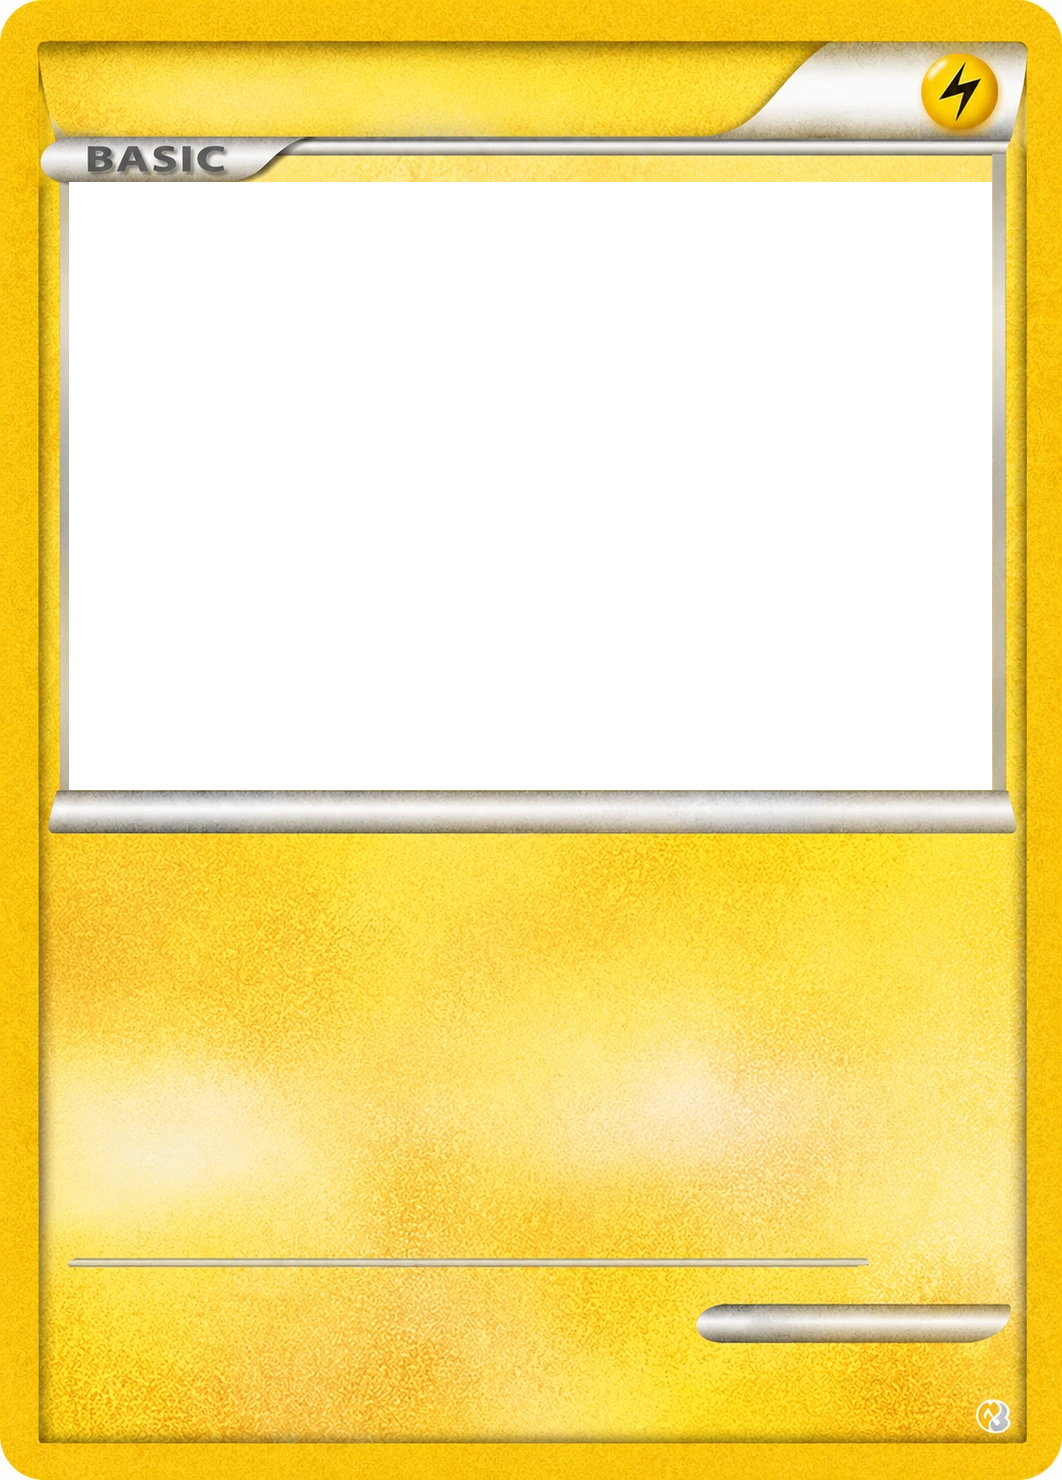
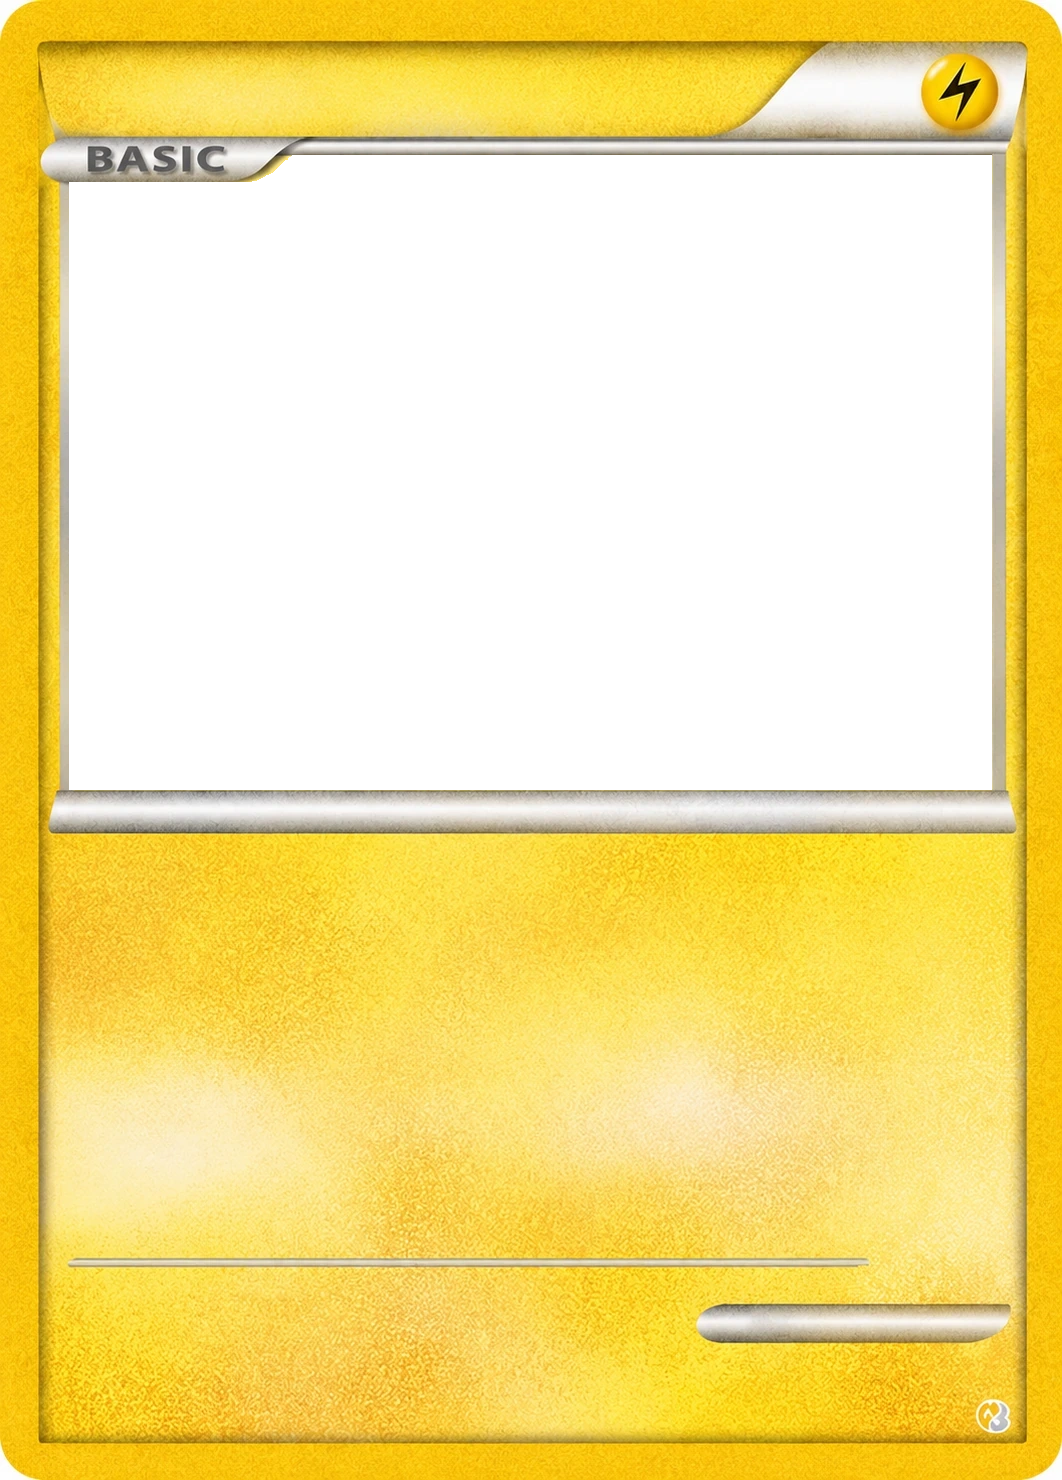
Punch the HGSS art hole up to the rail; stop shaving the illustration
Dan's review: a blank strip ran across the top of every illustration, most
visible right of the stage tab, on all three stages.

The art was covering its hole exactly — the hole itself was cut ~30px too low
when the blanks were processed, leaving a band of opaque frame colour between
the rail and the illustration. A real HGSS card has no such band: the art
starts at 10.16% of card height, immediately under the rail, with the stage
capsule overhanging it (measured on the Cyndaquil scan in actualcards/).

- tmp/hgss_repunch_hole.py re-punches all 21 frames up to the rail, keeping
  the capsule and its taper opaque so it still overhangs the art. The taper is
  read once off basic-fire.webp — its band is flat white, so the silhouette is
  unambiguous — and reused for every frame. Reading it per template does not
  work: the band is textured on water, lightning and fighting, so a per-row
  colour walk lands somewhere different on each row and leaves ragged slivers.

- HGSS_ART_WINDOW tops move 12.30% -> 10.14-10.47%. Heights carry +0.10 over
  the measured alpha bbox because the box otherwise rounds a device pixel
  short at some widths and shows a hairline of bare hole; the overshoot hides
  behind the silver lip.

- HGSS_ART_TAB_STRIP 0.1157 -> 0.024. The crops only contain ~2.4% of the
  source card's own stage tab, not 11.6% — the old value was shaving real
  illustration off the top of every card, which is what Dan spotted.
[…]

Changed region(s): [[0.2486, 0.0932, 0.9322, 0.1243]]

diff --git a/src/components/ui/TcgCard.tsx b/src/components/ui/TcgCard.tsx
@@ -52,23 +52,31 @@ const GEN4_ART_WINDOW = { left: 11.0, top: 13.5, width: 78.0, height: 36.0 };
 const GEN2_ART_WINDOW = { left: 11.0, top: 16.0, width: 78.0, height: 28.0 };
 
 /**
- * Art window per energy (transparent hole). Tops sit below the stage tab
- * (~12.3%) so the badge stays opaque. Measured after the 2026-07-11 reprocess
- * of all pokedex HGSS_Card_Templates basics (HP removed from sources).
+ * Art window per energy (transparent hole).
  *
- * Stage 1 / Stage 2 frames are derived from those same basics (only the tab
- * lettering differs — see tmp/hgss_make_stages.py), so one window per energy
- * covers all three stages.
+ * Tops sit just under the silver rail, ~10.2-10.6%, matching a real HGSS card
+ * (measured at 10.16% on the Cyndaquil scan in HGSS_Card_Templates/actualcards).
+ * The stage-tab capsule stays opaque and overhangs the art, as on a real card.
+ * The blanks originally punched the hole at 12.30%, which left a band of flat
+ * opaque colour between the tab and the illustration — re-punched by
+ * tmp/hgss_repunch_hole.py.
+ *
+ * Stage 1 / Stage 2 frames are derived from the basics (only the tab lettering
+ * differs — see tmp/hgss_make_stages.py), so one window per energy covers all
+ * three stages.
  */
 const HGSS_ART_WINDOW: Record<string, { left: number; top: number; width: number; height: number }> = {
-  fire:      { left: 7.06, top: 12.30, width: 85.78, height: 40.07 },
-  lightning: { left: 6.50, top: 12.30, width: 86.91, height: 41.08 },
-  grass:     { left: 7.06, top: 12.30, width: 85.78, height: 42.03 },
-  water:     { left: 6.50, top: 12.30, width: 86.91, height: 43.18 },
-  fighting:  { left: 7.72, top: 12.30, width: 84.46, height: 40.14 },
-  psychic:   { left: 6.50, top: 12.30, width: 86.91, height: 42.57 },
-  colorless: { left: 6.50, top: 12.30, width: 86.91, height: 42.16 },
+  fire:      { left: 7.06, top: 10.27, width: 85.78, height: 42.19 },
+  lightning: { left: 6.50, top: 10.47, width: 86.91, height: 43.01 },
+  grass:     { left: 7.06, top: 10.47, width: 85.78, height: 43.95 },
+  water:     { left: 6.50, top: 10.20, width: 86.91, height: 45.37 },
+  fighting:  { left: 7.72, top: 10.41, width: 84.46, height: 42.13 },
+  psychic:   { left: 6.50, top: 10.20, width: 86.91, height: 44.76 },
+  colorless: { left: 6.50, top: 10.14, width: 86.91, height: 44.42 },
 };
+// Heights carry +0.10 over the measured alpha bbox: at some viewport widths the
+// box rounded a device pixel short and left a hairline of bare hole along the
+// bottom. The overshoot lands behind the opaque silver lip, so it never shows.
 const HGSS_ART_DEFAULT = HGSS_ART_WINDOW.fire;
 
 /**
@@ -134,14 +142,13 @@ const HGSS_LAYOUT: Record<string, {
 };
 
 /**
- * The gen4 illustrations were cropped at (0.040, 0.075, 0.960, 0.490) of the
- * source card, which keeps the source card's OWN stage tab in the top strip —
- * `(0.123 - 0.075) / (0.490 - 0.075)` of the crop. Against the CSS placeholder
- * that read as a nice partial tab, but the real templates bake their own tab,
- * so the leftover ghosts through it ("STAGE 1 · Evolves from Bulbasaur" under
- * a Stage 2 badge). Zoom the art from its bottom edge to push that strip out.
+ * The gen4 illustrations keep a sliver of the source card's OWN stage tab along
+ * the top — measured at ~10px of 423 on the HGSS-era crops, e.g.
+ * public/cards/gen4/hgss1/57.jpg. Now that the hole reaches up under our own
+ * opaque tab, that sliver lands behind it and is hidden, so we only need to zoom
+ * past the source's frame edge. Anything larger visibly shaves the artwork.
  */
-const HGSS_ART_TAB_STRIP = 0.1157;
+const HGSS_ART_TAB_STRIP = 0.024;
 const HGSS_ART_ZOOM = 1 / (1 - HGSS_ART_TAB_STRIP);
 
 const SUBTITLE_POS: Record<string, { top: string; left: string; right: string }> = {

diff --git a/src/__tests__/hgss-card-templates.test.ts b/src/__tests__/hgss-card-templates.test.ts
@@ -19,7 +19,7 @@ const TEMPLATE_DIR = resolve(PUBLIC_DIR, 'cards/gen4/templates');
 const ENERGIES = ['fire', 'lightning', 'grass', 'water', 'fighting', 'psychic', 'colorless'];
 const STAGES = ['basic', 'stage1', 'stage2'];
 
-/** "/cards/gen4/templates/basic-grass.webp?v=10" -> absolute path under public/. */
+/** "/cards/gen4/templates/basic-grass.webp?v=11" -> absolute path under public/. */
 function templatePath(url: string): string {
   return resolve(PUBLIC_DIR, url.split('?')[0]!.replace(/^\//, ''));
 }

diff --git a/src/core/constants/tcg-card.ts b/src/core/constants/tcg-card.ts
@@ -86,5 +86,5 @@ export function resolveHgssTemplate(
   const stageKey = HGSS_STAGE_KEY[stage];
   if (!stageKey || !HGSS_ENERGIES.has(energyKey)) return null;
   // ?v= bumps when templates are reprocessed (art hole / corners / tab).
-  return `/cards/gen4/templates/${stageKey}-${energyKey}.webp?v=10`;
+  return `/cards/gen4/templates/${stageKey}-${energyKey}.webp?v=11`;
 }

diff --git a/STATUS.md b/STATUS.md
@@ -7,11 +7,16 @@
 
 ---
 
-## ▶ IN PROGRESS — art does not fit the frame window (2026-07-30)
+## ▶ IN PROGRESS — one bug left (2026-07-30)
 
-**Read this first. Two open bugs from Dan's review of commit `bed8b8e`.**
+### Bug 2 (OPEN, next up) — "Held:" not centred in its silver pill
 
-### Bug 1 (priority) — blank gap along the top of every illustration
+`H.heldPill` in `TcgCard.tsx` — text sits on the bottom edge of the capsule instead of
+optically centred. Per-energy `heldPillTop` in `HGSS_LAYOUT`.
+
+---
+
+### Bug 1 — blank gap along the top of every illustration — **FIXED**
 
 **Symptom:** on every card, all three stages, there is a light empty strip across the
 top of the art window — most visible immediately to the right of the `BASIC` /
@@ -57,27 +62,35 @@ Measured, not eyeballed:
   off the top for no reason. Once the hole reaches up under our own opaque tab, the
   source tab is hidden by it and this strip can go to ~0.
 
-**Fix (in order):**
-1. Re-punch all 21 frames: extend transparency upward from the current hole top to
-   just below the rail, across the hole's x-range, **leaving the tab capsule and its
-   taper opaque** so it overhangs the art like a real card. Per-row rule: find the
-   leftmost x where the run to the hole's right edge is uniformly near-white; that is
-   where the white band starts on that row, and the capsule is to its left.
-2. Raise `HGSS_ART_WINDOW[energy].top` and add the same amount to `.height` so the
-   bottom edge stays on the silver lip.
-3. Drop `HGSS_ART_TAB_STRIP` to the measured source-tab fraction (~0.024) or 0.
-4. Bump the template `?v=`.
-5. Verify: magenta-holder screenshot shows no uncovered hole; side-by-side against
-   the real Cyndaquil scan shows no white band; check one card per energy per stage.
+**Fixed by `tmp/hgss_repunch_hole.py`** — re-punches all 21 frames so the hole reaches
+the rail. Art tops are now 10.14-10.47%, against the real card's 10.16%.
 
-**Repro harness (rebuild it, it is scratch and was deleted):** `cardlab.html` at the
-repo root + `tmp/cardlab.tsx` rendering `<TcgCard>` from `tmp/records.json`, dumped
-from the real save. Screenshot with Playwright over `https://localhost:5173/cardlab.html?s=10`.
+Two dead ends worth not repeating, both of which *looked* fine at thumbnail size:
 
-### Bug 2 (after bug 1) — "Held:" not centred in its silver pill
+- **Per-row colour walks to find the capsule's edge.** The band is flat 254 on
+  fire/grass but textured on water, lightning and fighting, so the walk stopped at a
+  different x on every row and left ragged horizontal slivers of template under the
+  rail. The capsule sits identically on all 21 frames, so the taper is now read
+  **once** off `basic-fire.webp` (its flat white band makes the silhouette
+  unambiguous) and reused for every frame.
+- **Starting that walk on the hole's right edge.** That column is the frame's bevel,
+  nowhere near the band colour, so the walk exited immediately and most rows were
+  never punched at all. Sample and start `BAND_INSET` in from the edge.
 
-`H.heldPill` in `TcgCard.tsx` — text sits on the bottom edge of the capsule instead of
-optically centred. Per-energy `heldPillTop` in `HGSS_LAYOUT`.
+`HGSS_ART_WINDOW` heights carry **+0.10 over the measured alpha bbox**: without it the
+box rounds a device pixel short at some widths and leaves a hairline of bare hole along
+the bottom. The overshoot hides behind the opaque silver lip.
+
+`HGSS_ART_TAB_STRIP` dropped 0.1157 -> **0.024**, the real amount of source-card stage
+tab in the crops. The old value shaved ~13% off the top of every illustration.
+
+Template cache is now **`?v=11`**.
+
+**Verification harness (scratch — rebuild it):** `cardlab.html` at the repo root +
+`tmp/cardlab.tsx` render `<TcgCard>` straight from `tmp/records.json`. A Playwright
+script paints the art holder magenta: any magenta left on screen is hole the art fails
+to cover. A second builds a contact sheet of just the tab/art junction. Checked clean
+on 12 species covering all 7 energies and all 3 stages.
 
 ---
 
